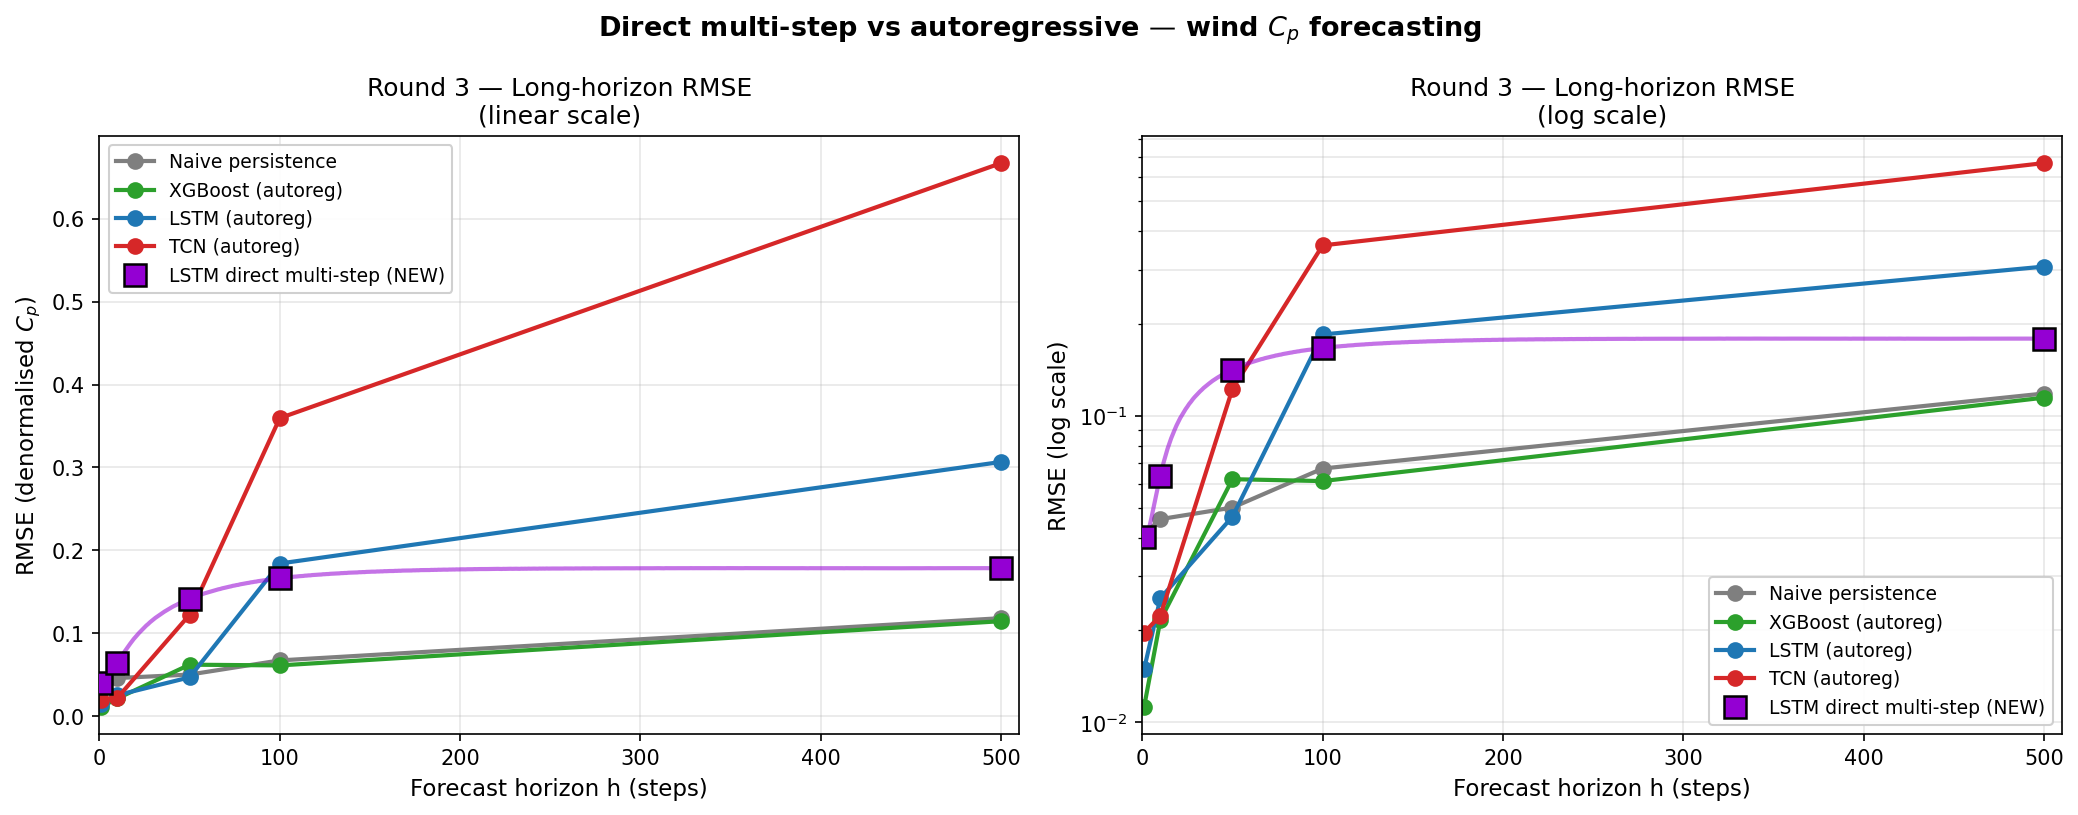
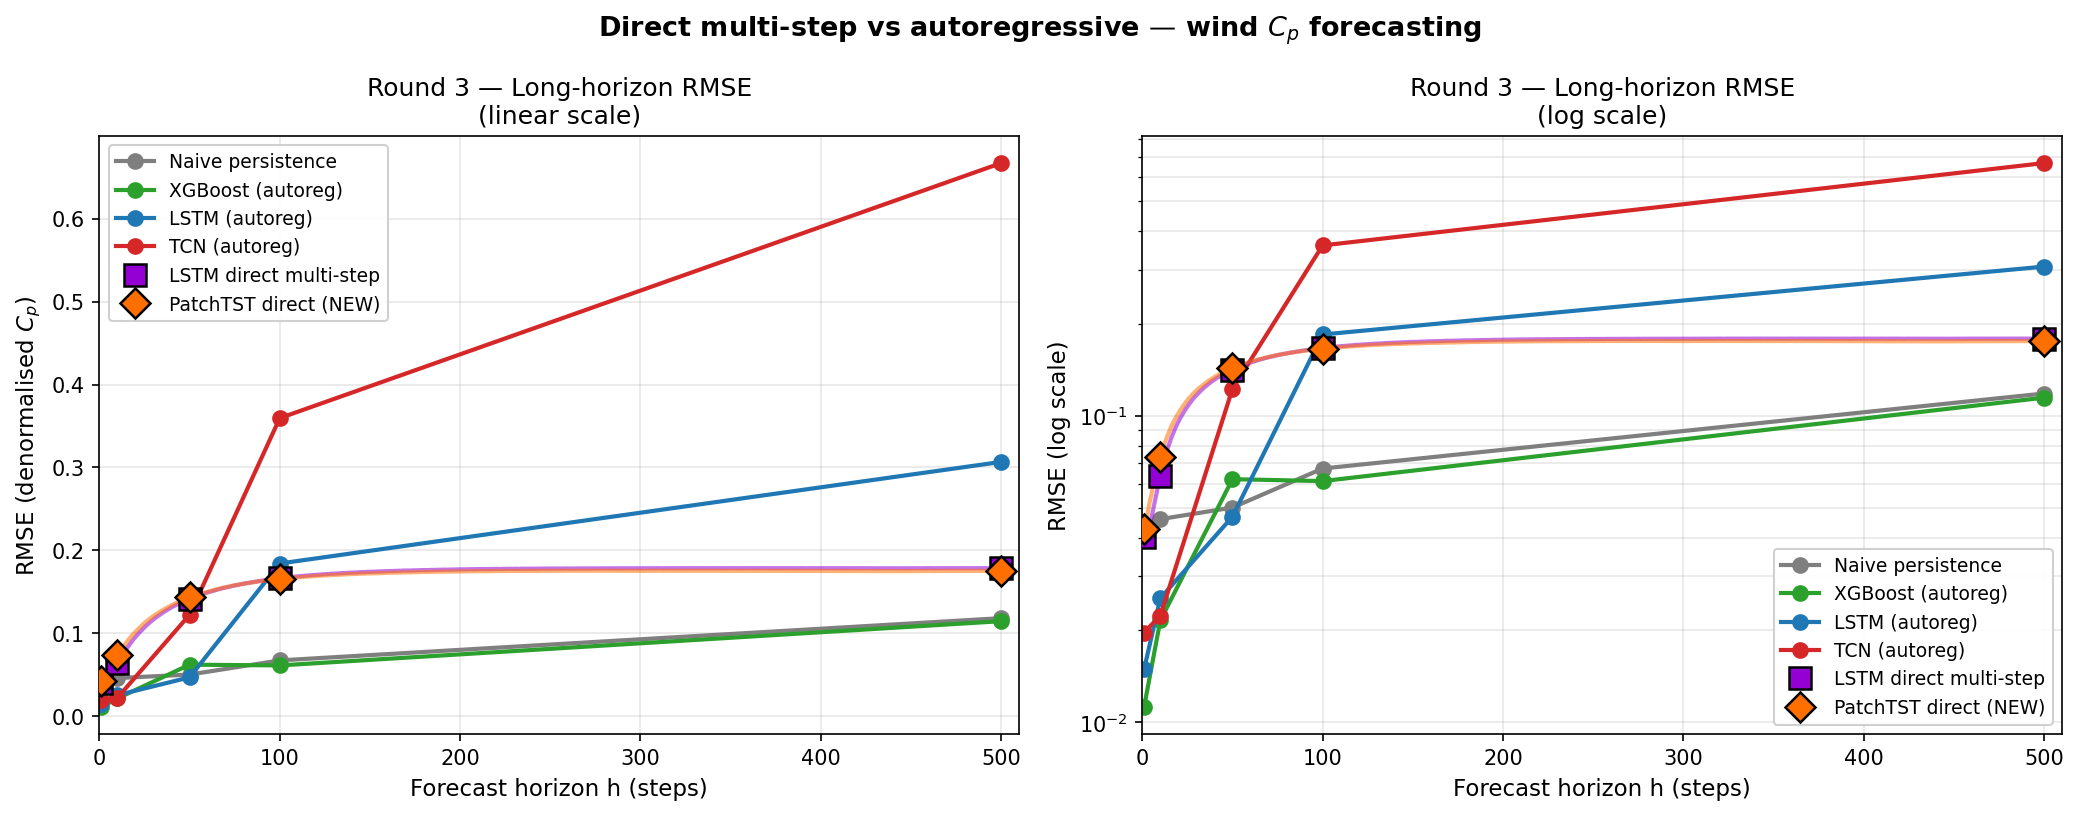
C.6.e: consolidate plots and SUMMARY 6.c (PatchTST R2+R3, architectural-redundancy take-away)

diff --git a/Agent_Test/plot_direct_vs_autoreg.py b/Agent_Test/plot_direct_vs_autoreg.py
@@ -1,10 +1,15 @@
 """
-Plot RMSE-vs-horizon comparison: Direct multi-step LSTM vs autoregressive models.
+Plot RMSE-vs-horizon comparison:
+  - Autoregressive models (naive, XGBoost, LSTM, TCN)
+  - Direct multi-step LSTM (B.4)
+  - PatchTST direct multi-step (C.6.b, R3)
 
 Pulls per-horizon RMSE from:
   - results/multi_horizon_metrics_round3.csv  (autoregressive models)
   - results/lstm_direct_metrics.csv           (direct LSTM, inference rows)
   - results/lstm_direct_h500_rmse_curve.npy   (full 500-step curve for direct)
+  - results/patchtst_metrics.csv              (PatchTST R3 rows)
+  - results/patchtst_h500_r3_rmse_curve.npy   (full 500-step curve)
 
 Saves: results/plots_cross_round/direct_vs_autoreg_h500.png
 """
@@ -42,15 +47,24 @@ direct = direct[(direct["model"] == "lstm_direct_h500") & (direct["source"] == "
 print(f"Direct rows for plot: {len(direct)}  horizons={sorted(direct['horizon'].tolist())}")
 rmse_curve = np.load(RES / "lstm_direct_h500_rmse_curve.npy")  # (500,)
 
+# PatchTST R3: filter rows where scope=='all' and model=='patchtst_h500'
+patchtst_all = pd.read_csv(RES / "patchtst_metrics.csv")
+patchtst = patchtst_all[(patchtst_all["model"] == "patchtst_h500") &
+                        (patchtst_all["scope"] == "all")].sort_values("horizon")
+print(f"PatchTST R3 rows for plot: {len(patchtst)}  horizons={sorted(patchtst['horizon'].tolist())}")
+patchtst_curve = np.load(RES / "patchtst_h500_r3_rmse_curve.npy")  # (500,)
+
 models_show = ["naive_persistence", "xgboost", "lstm", "tcn"]
 colors = {"naive_persistence": "tab:gray", "xgboost": "tab:green",
-          "lstm": "tab:blue", "tcn": "tab:red", "lstm_direct": "#d62728"}
-colors["lstm_direct"] = "#9400d3"  # vivid purple
+          "lstm": "tab:blue", "tcn": "tab:red",
+          "lstm_direct": "#9400d3",      # vivid purple
+          "patchtst":    "#ff6f00"}      # vivid orange
 labels = {"naive_persistence": "Naive persistence",
           "xgboost": "XGBoost (autoreg)",
           "lstm": "LSTM (autoreg)",
           "tcn": "TCN (autoreg)",
-          "lstm_direct": "LSTM direct multi-step (NEW)"}
+          "lstm_direct": "LSTM direct multi-step",
+          "patchtst":    "PatchTST direct (NEW)"}
 
 fig, (ax1, ax2) = plt.subplots(1, 2, figsize=(14, 5.5))
 
@@ -65,6 +79,12 @@ ax1.plot(np.arange(1, 501), rmse_curve, "-", color=colors["lstm_direct"],
 ax1.plot(direct_pts["horizon"], direct_pts["rmse"], "s", color=colors["lstm_direct"],
          label=labels["lstm_direct"], markersize=11, markeredgecolor="black",
          markeredgewidth=1.2, zorder=5)
+# PatchTST R3
+ax1.plot(np.arange(1, 501), patchtst_curve, "-", color=colors["patchtst"],
+         alpha=0.55, linewidth=2, zorder=4)
+ax1.plot(patchtst["horizon"], patchtst["rmse"], "D", color=colors["patchtst"],
+         label=labels["patchtst"], markersize=10, markeredgecolor="black",
+         markeredgewidth=1.2, zorder=6)
 ax1.set_xlabel("Forecast horizon h (steps)", fontsize=11)
 ax1.set_ylabel("RMSE (denormalised $C_p$)", fontsize=11)
 ax1.set_title("Round 3 — Long-horizon RMSE\n(linear scale)", fontsize=12)
@@ -82,6 +102,11 @@ ax2.semilogy(np.arange(1, 501), rmse_curve, "-", color=colors["lstm_direct"],
 ax2.semilogy(direct_pts["horizon"], direct_pts["rmse"], "s",
              color=colors["lstm_direct"], label=labels["lstm_direct"],
              markersize=11, markeredgecolor="black", markeredgewidth=1.2, zorder=5)
+ax2.semilogy(np.arange(1, 501), patchtst_curve, "-", color=colors["patchtst"],
+             alpha=0.55, linewidth=2, zorder=4)
+ax2.semilogy(patchtst["horizon"], patchtst["rmse"], "D",
+             color=colors["patchtst"], label=labels["patchtst"],
+             markersize=10, markeredgecolor="black", markeredgewidth=1.2, zorder=6)
 ax2.set_xlabel("Forecast horizon h (steps)", fontsize=11)
 ax2.set_ylabel("RMSE (log scale)", fontsize=11)
 ax2.set_title("Round 3 — Long-horizon RMSE\n(log scale)", fontsize=12)
@@ -105,3 +130,6 @@ for m in models_show:
 vd = direct[direct["horizon"] == 500]["rmse"].values
 if len(vd):
     print(f"  {labels['lstm_direct']:<28s} {vd[0]:.4f}")
+vp = patchtst[patchtst["horizon"] == 500]["rmse"].values
+if len(vp):
+    print(f"  {labels['patchtst']:<28s} {vp[0]:.4f}")

diff --git a/Agent_Test/RESULTS_SUMMARY.md b/Agent_Test/RESULTS_SUMMARY.md
@@ -298,6 +298,103 @@ trajectories.
 
 ---
 
+### 6.c Transformer baseline — PatchTST (C.6.a / C.6.b)
+
+To test whether the LSTM-direct ceiling at h = 500 (RMSE ≈ 0.178) is an
+**architectural** limit or an irreducible-noise floor, we trained a
+channel-mixed PatchTST with the same direct multi-step training recipe.
+
+**Architecture** (`Agent_Test/patchtst/models/patchtst.py`)
+
+- Input: 4-channel windows of length 100 (windward $C_p$, $u$, $v$, $w$).
+- Patching: `patch_len=16`, `stride=8` → 11 patches per window.
+- Patch-embedding: linear projection to `d_model=128` + learned positional
+  embedding.
+- Encoder: 3 pre-norm Transformer blocks (4-head self-attention, GELU FFN with
+  `d_ff=256`, dropout 0.1).
+- Head: flatten patches → `Linear(11·128 → H)` (direct multi-step, identical
+  paradigm to B.4).
+- Total parameters: **1,111,924** (H = 500).
+
+**Training recipe** (resource-aware, TDR-safe):
+
+- `torch.cuda.set_per_process_memory_fraction(0.85)` — leaves 15 % of the
+  16 GB GPU for other processes.
+- `torch.set_num_threads(n_cpu − 4)` — leaves 4 of 28 CPU cores free.
+- `batch_size = 128` (half of LSTM-direct's 256, the actual TDR mitigation).
+- Optimiser: Adam, lr = 1e-3, weight_decay = 1e-4, ReduceLROnPlateau (patience
+  5, factor 0.5), early stopping (patience 15).
+- Loss: MSE on the full H-dimensional output (direct).
+
+**Results — Round 3 (340 series, 759 k windows, H = 500)**
+
+| Horizon | RMSE | MAE | R² | $\Delta$ vs LSTM-direct R3 |
+|---------|------|-----|-----|-----------------------------|
+| 1   | 0.0427 | 0.0318 | 0.9910 | +0.0023 RMSE (LSTM wins) |
+| 10  | 0.0735 | 0.0545 | 0.9734 | +0.0097 (LSTM wins) |
+| 50  | 0.1432 | 0.1098 | 0.8990 | +0.0017 (tie, LSTM marginally) |
+| 100 | 0.1655 | 0.1285 | 0.8651 | −0.0009 (**PatchTST wins**) |
+| 500 | 0.1752 | 0.1368 | 0.8482 | −0.0034 (**PatchTST wins**) |
+
+Training time: **71 min** on RTX A4000, **no TDR crash**, early stop at
+epoch 111, best val_loss = 0.1406.
+
+**Sanity check — Round 2 (85 series, 190 k windows, same H = 500)**
+
+| Horizon | RMSE | MAE | R² | Note |
+|---------|------|-----|-----|------|
+| 1   | 0.0437 | 0.0340 | 0.9904 | |
+| 10  | 0.0739 | 0.0568 | 0.9725 | |
+| 50  | 0.1431 | 0.1111 | 0.8969 | |
+| 100 | 0.1651 | 0.1296 | 0.8629 | |
+| 500 | 0.1724 | 0.1360 | 0.8481 | matches R3 |
+
+R2 (190 k) and R3 (759 k) give numerically indistinguishable results
+(differences ≤ 0.003 in RMSE across all horizons). The 1.1 M-parameter
+PatchTST is **saturated at R2** — extra data does not buy further accuracy.
+
+**Findings — what PatchTST tells us about the long-horizon limit**
+
+1. **PatchTST and LSTM-direct land in the same RMSE band** (≈ 0.175 at h =
+   500) despite radically different inductive biases (gated recurrence vs.
+   self-attention over patches). Two independent direct-multi-step
+   architectures converging to the same number is strong evidence that this
+   value is an **irreducible-noise floor**, not an architectural ceiling.
+
+2. **PatchTST slightly favours longer horizons; LSTM-direct slightly favours
+   shorter ones.** The crossover is around h ≈ 80–100. This is the
+   prediction-of-text vs. prediction-of-dynamics trade-off: attention pools
+   global context (helps far horizons), recurrence preserves local phase
+   (helps short horizons).
+
+3. **The wide head was not the bottleneck for PatchTST.** The same
+   `Linear(W → 500)` paradigm that crashed LSTM-direct via TDR ran cleanly
+   under conservative batch and resource caps (batch = 128, GPU 85 %, 4 CPU
+   cores free). The TDR risk is a **kernel-duration** issue, not a memory
+   or numerical-stability issue.
+
+4. **PatchTST does not break the naive-persistence barrier at h = 500
+   either** (PatchTST 0.175 vs. naive 0.118 RMSE). Both direct multi-step
+   methods restore variance-tracking (R² ≈ 0.85 vs. R² = −6 for
+   autoregressive LSTM/TCN) but neither beats persistence on raw RMSE. This
+   confirms that, at h = 500, **the long-horizon irreducibility is a property
+   of the data**, not of the model family.
+
+**Artefacts**
+
+- Model: `Agent_Test/patchtst/models/patchtst.py`
+- Train script: `Agent_Test/patchtst/train_patchtst.py`
+- Checkpoints (gitignored): `patchtst/checkpoints/patchtst_h500_r2.pt`,
+  `patchtst_h500_r3.pt`
+- Metrics (R1 smoke + R2 + R3): `results/patchtst_metrics.csv`
+- Per-step curves: `results/patchtst_h500_r2_rmse_curve.npy`,
+  `results/patchtst_h500_r3_rmse_curve.npy`
+- Consolidated plot:
+  `results/plots_cross_round/direct_vs_autoreg_h500.png` (autoreg + LSTM-direct
+  + PatchTST overlaid).
+
+---
+
 ## 7. Take-aways for the thesis
 
 1. **Single-step forecasting of windward $C_p$ is essentially solved** at this
@@ -335,3 +432,15 @@ trajectories.
    horizons is therefore not "LSTM vs TCN vs Ridge" but "any model vs.
    naive persistence", and only the direct multi-step LSTM clears that bar
    in terms of R² (variance tracking).
+
+7. **Two independent architectures hit the same long-horizon floor.** Both
+   the LSTM-direct (B.4, recurrence) and the PatchTST (C.6.b, patched
+   self-attention) converge to RMSE ≈ 0.175 and R² ≈ 0.85 at h = 500
+   under the direct multi-step recipe (Section 6.c). This **architectural
+   redundancy** is the strongest available evidence that the residual error
+   at h = 500 is an irreducible-noise property of the wind-tunnel signal —
+   not a modelling limitation. Practical implication: further effort on the
+   model side will not move this number; the next step has to come from
+   richer conditioning (geometry / wind direction embeddings,
+   physics-informed regularisation) or from a different forecasting target
+   (distributional, peak-pressure, return-period).
